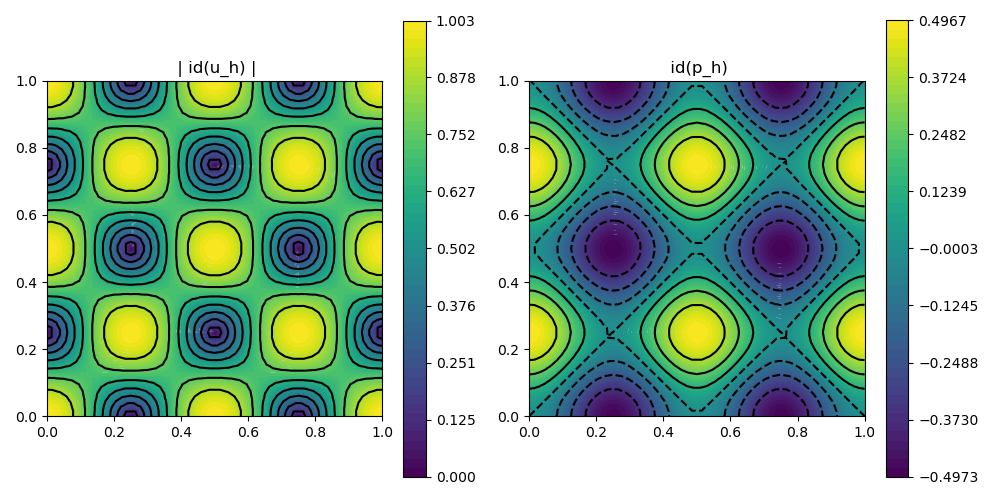
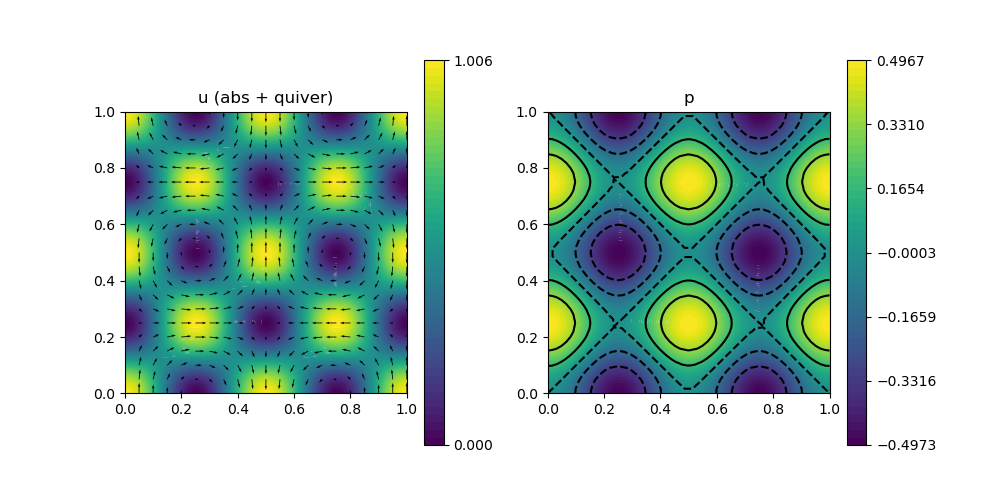
vectorplots via PointEvaluator and new callback interface of GridVisualize in several examples, started documentation of PointEvaluator, fixed some allocations in nonlinear forms and febasisevaluator

diff --git a/docs/src/pointevaluators.md b/docs/src/pointevaluators.md
@@ -1,0 +1,14 @@
+# Point Evaluators
+
+Point evaluators allow to evaluate the Solution at arbitrary points.
+
+```@autodocs
+Modules = [GradientRobustMultiPhysics]
+Pages = ["pointevaluator.jl"]
+Order   = [:type, :function]
+```
+
+#### Noteworthy Examples
+
+Example 224 uses PointEvaluator to evaluate the pressure difference in a flow around an obstacle and to offer a callback function for a quiver plot.
+
